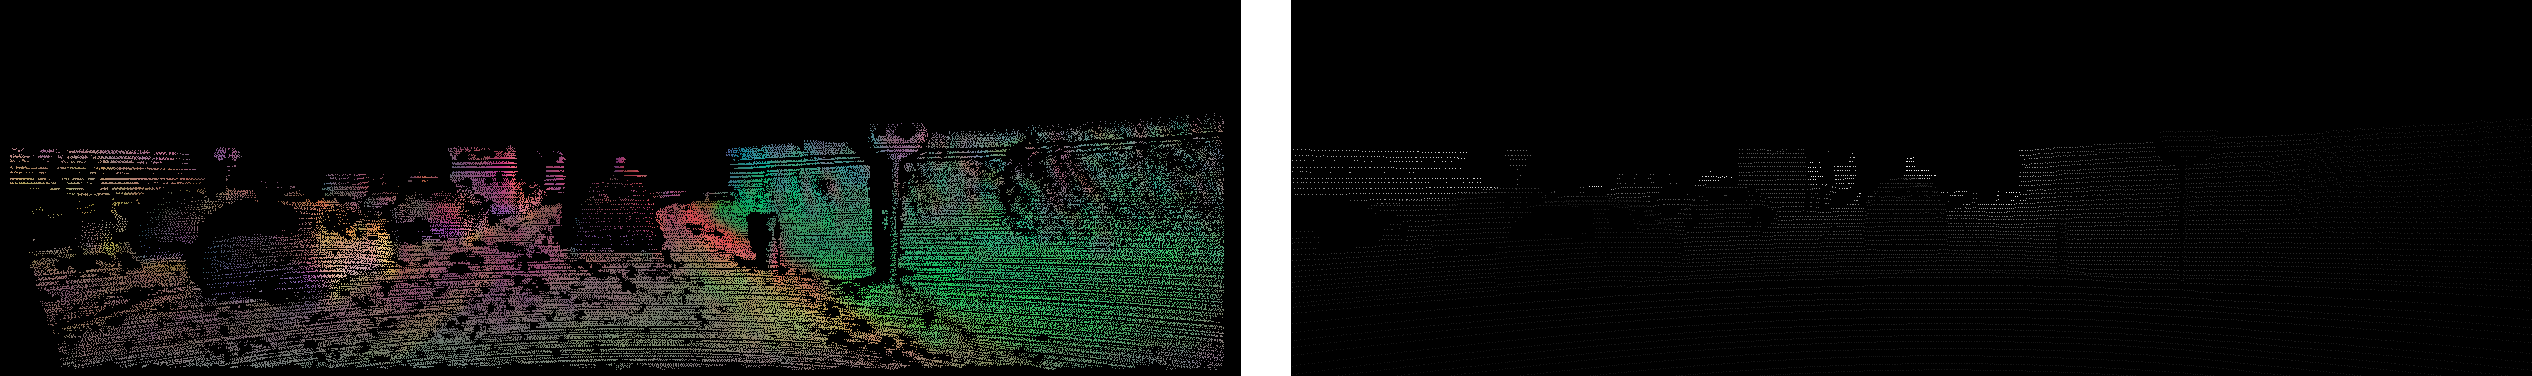
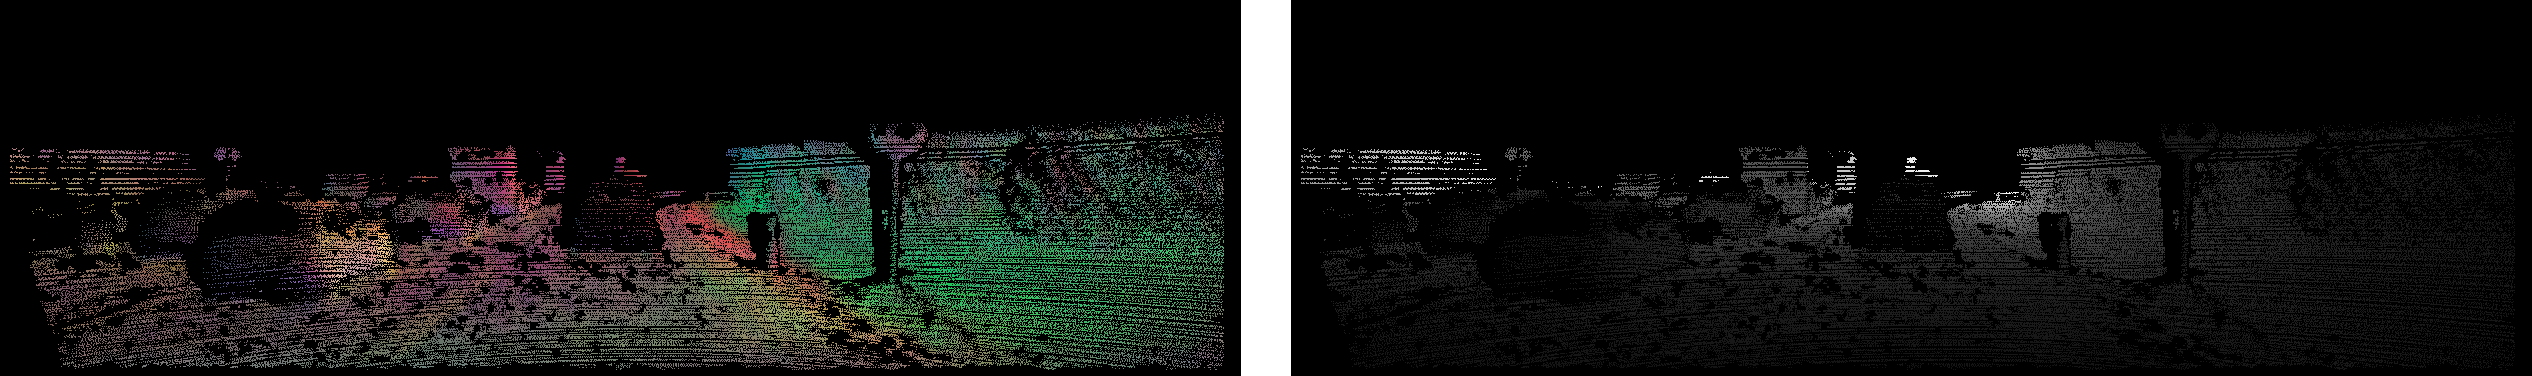
fix mask pred depth bug

Changed region(s): [[0.4992, 0.3218, 0.9984, 0.9654]]

diff --git a/final/tb_writer.py b/final/tb_writer.py
@@ -2,6 +2,8 @@ from dataloader.dataloader import get_loader
 from training.utils import normal_to_0_1
 from tensorboardX import SummaryWriter
 import torch
+import numpy as np
+
 class TensorboardWriter():
     def __init__(self, path):
         self.writer = SummaryWriter(path)
@@ -21,7 +23,11 @@ class TensorboardWriter():
             self.writer.add_image('lidar input', lidar[0], 1)
             self.writer.add_image('GroundTruth depth', normal_to_0_1(gt_depth[0]), 1)
             self.writer.add_image('GroundTruth surface normal', normal_to_0_1(gt_surface_normal[0]), 1)
-            self.mask = mask # b x 1 x w x h
+            
+            print(gt_depth.size())
+            self.gt_mask = np.where(gt_depth.numpy() > 0.0, 1.0, 0.0) # b x 1 x w x h
+            print(self.gt_mask)
+
             self.gt_normal_mask = gt_normal_mask # b x 1 x w x h
             #print(mask.size())
             #print(gt_normal_mask.size())
@@ -48,7 +54,7 @@ class TensorboardWriter():
         self.writer.add_image('predicted_dense', normal_to_0_1(predicted_dense[0]), epoch)
         self.writer.add_image('pred_surface_normal', normal_to_0_1(pred_surface_normal[0]), epoch)
 
-        self.writer.add_image('mask_predicted_dense', normal_to_0_1(predicted_dense[0]*self.mask[0]), epoch)
+        self.writer.add_image('mask_predicted_dense', normal_to_0_1(predicted_dense[0]*self.gt_mask[0]), epoch)
         masked_normal = (pred_surface_normal[0]+torch.max(pred_surface_normal[0]))*self.gt_normal_mask[0]
         self.writer.add_image('mask_pred_surface_normal', normal_to_0_1(masked_normal), epoch)
 
